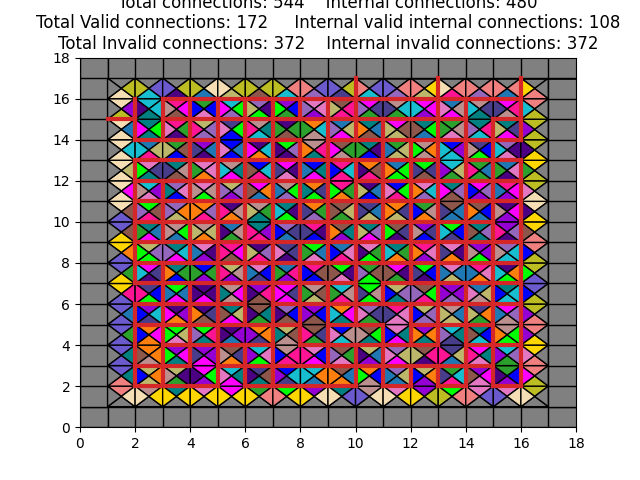
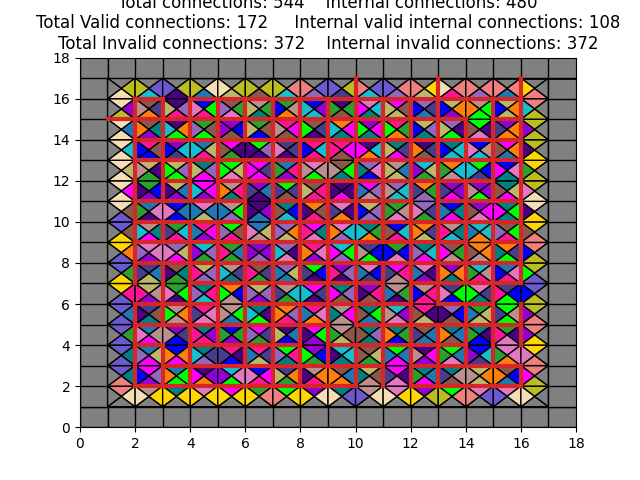
just a few more fixes

Changed region(s): [[0.1875, 0.1875, 0.8438, 0.8125]]

diff --git a/Projet/code/utils/utils.py b/Projet/code/utils/utils.py
@@ -15,19 +15,7 @@ WEST = 2
 EAST = 3
 
 
-# Function to flatten a grid into a list
-def grid_to_list(grid):
-    return [piece for row in grid for piece in row]
-
-
-# Function to create a 2D grid from a list
-def list_to_grid(e: EternityPuzzle, liste):
-    grid = []
-    for i in range(e.board_size):
-        grid.append(liste[i * e.board_size : i * e.board_size + e.board_size])
-    return grid
-
-
+# Save a visualisation
 def visualize(e: EternityPuzzle, solution, name="visualisation"):
     e.display_solution(solution, name)
 
@@ -37,6 +25,7 @@ def piece_type(piece):
     return "corner" if count_gray == 2 else "edge" if count_gray == 1 else "inner"
 
 
+# Return a list of the positions of the pieces in conflict
 def get_conflict_positions(e, solution):
     positions = []
 
@@ -70,6 +59,7 @@ def get_conflict_positions(e, solution):
     return positions
 
 
+# Swap the orientation of 2 edges or 2 corners : the GRAY positions are exchanged
 def swap_orientations(e: EternityPuzzle, piece1, piece2):
     if piece_type(piece1) == "corner" and piece_type(piece2) == "corner":
         gray_positions_1 = [i for i in range(4) if piece1[i] == GRAY]
@@ -104,6 +94,7 @@ def swap_orientations(e: EternityPuzzle, piece1, piece2):
     return piece1, piece2
 
 
+# Given a solution, set the GRAY colors of the corners to the ouside
 def orient_corners(e: EternityPuzzle, solution):
     solution[0] = [
         corner
@@ -129,9 +120,8 @@ def orient_corners(e: EternityPuzzle, solution):
     return solution
 
 
+# Given a solution, set the GRAY color of the edges  to the ouside
 def orient_edges(e: EternityPuzzle, solution):
-    # Orient the corners of the solution : GRAY facing the outside
-
     south_edge_idx = [i for i in range(1, e.board_size)]
     west_edge_idx = [
         i for i in range(1, e.n_piece - e.board_size) if i % e.board_size == 0
@@ -242,3 +232,19 @@ def generate_random_inner_solution(e: EternityPuzzle, border):
         solution[position] = inner_pieces[i]
 
     return solution
+
+
+# ! Will be removed :
+
+
+# Function to flatten a grid into a list
+def grid_to_list(grid):
+    return [piece for row in grid for piece in row]
+
+
+# Function to create a 2D grid from a list
+def list_to_grid(e: EternityPuzzle, liste):
+    grid = []
+    for i in range(e.board_size):
+        grid.append(liste[i * e.board_size : i * e.board_size + e.board_size])
+    return grid

diff --git a/Projet/code/solver_genetic.py b/Projet/code/solver_genetic.py
@@ -70,8 +70,8 @@ def solve_advanced(e: EternityPuzzle):
     # Solve the inner puzzle
     time_limit = 20 * 60  # 20 * 60
 
-    pop_size = 1000
-    mutation_rate = 0.05
+    pop_size = 100
+    mutation_rate = 1
     max_time_local_search = 20
     tournament_size = 100
     tournament_accepted = 30
@@ -125,7 +125,7 @@ def genetic_algorithm(
             # The parents selected for the next generation
             parents = population[: pop_size // 2]
 
-            # The elite is kept for the next generation
+            # The elite is kept intact for the next generation
             elite = population[:elite_size]
 
             # Create the offspring for the next generation
@@ -160,7 +160,7 @@ def genetic_algorithm(
             # Update the best solution found so far
             fittest_solution = population[0]
             fittest_score = fitness(e, fittest_solution)
-            print(fittest_score)
+            # print(fittest_score)
             if fittest_score > best_fitness_no_improvement:
                 best_fitness_no_improvement = fittest_score
                 improved_solution, improved_fitness = local_search(
@@ -438,7 +438,7 @@ def genetic_algorithm_border(
                 if improved_solution_score > best_fitness:
                     best_fitness = improved_solution_score
                     best_solution = improved_solution.copy()
-                    print("New border cost : ", best_fitness)
+                    print("New border cost : ", -best_fitness)
                 improvement_timer = 0
 
             else:
@@ -452,7 +452,7 @@ def genetic_algorithm_border(
                 time_over = True
                 break
 
-    return best_solution, fitness_border(e, best_solution)
+    return best_solution, e.get_total_n_conflict(best_solution)
 
 
 def get_heuristic_solution(e: EternityPuzzle):
